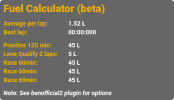
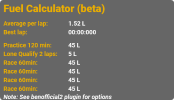
Added one more row for heat races with 6 sessions.

Changed region(s): [[0.0, 0.84, 0.6609, 1.0]]

diff --git a/Plugin/Modules/FuelCalc.cs b/Plugin/Modules/FuelCalc.cs
@@ -79,7 +79,7 @@ namespace benofficial2.Plugin
         public double ConsumptionPerLap { get; internal set; } = 0.0;
         public bool WarningVisible { get; internal set; } = false;
 
-        public const int MaxSessions = 5;
+        public const int MaxSessions = 6;
         public List<FuelCalcSession> Sessions { get; internal set; }
 
         public override void Init(PluginManager pluginManager, benofficial2 plugin)
